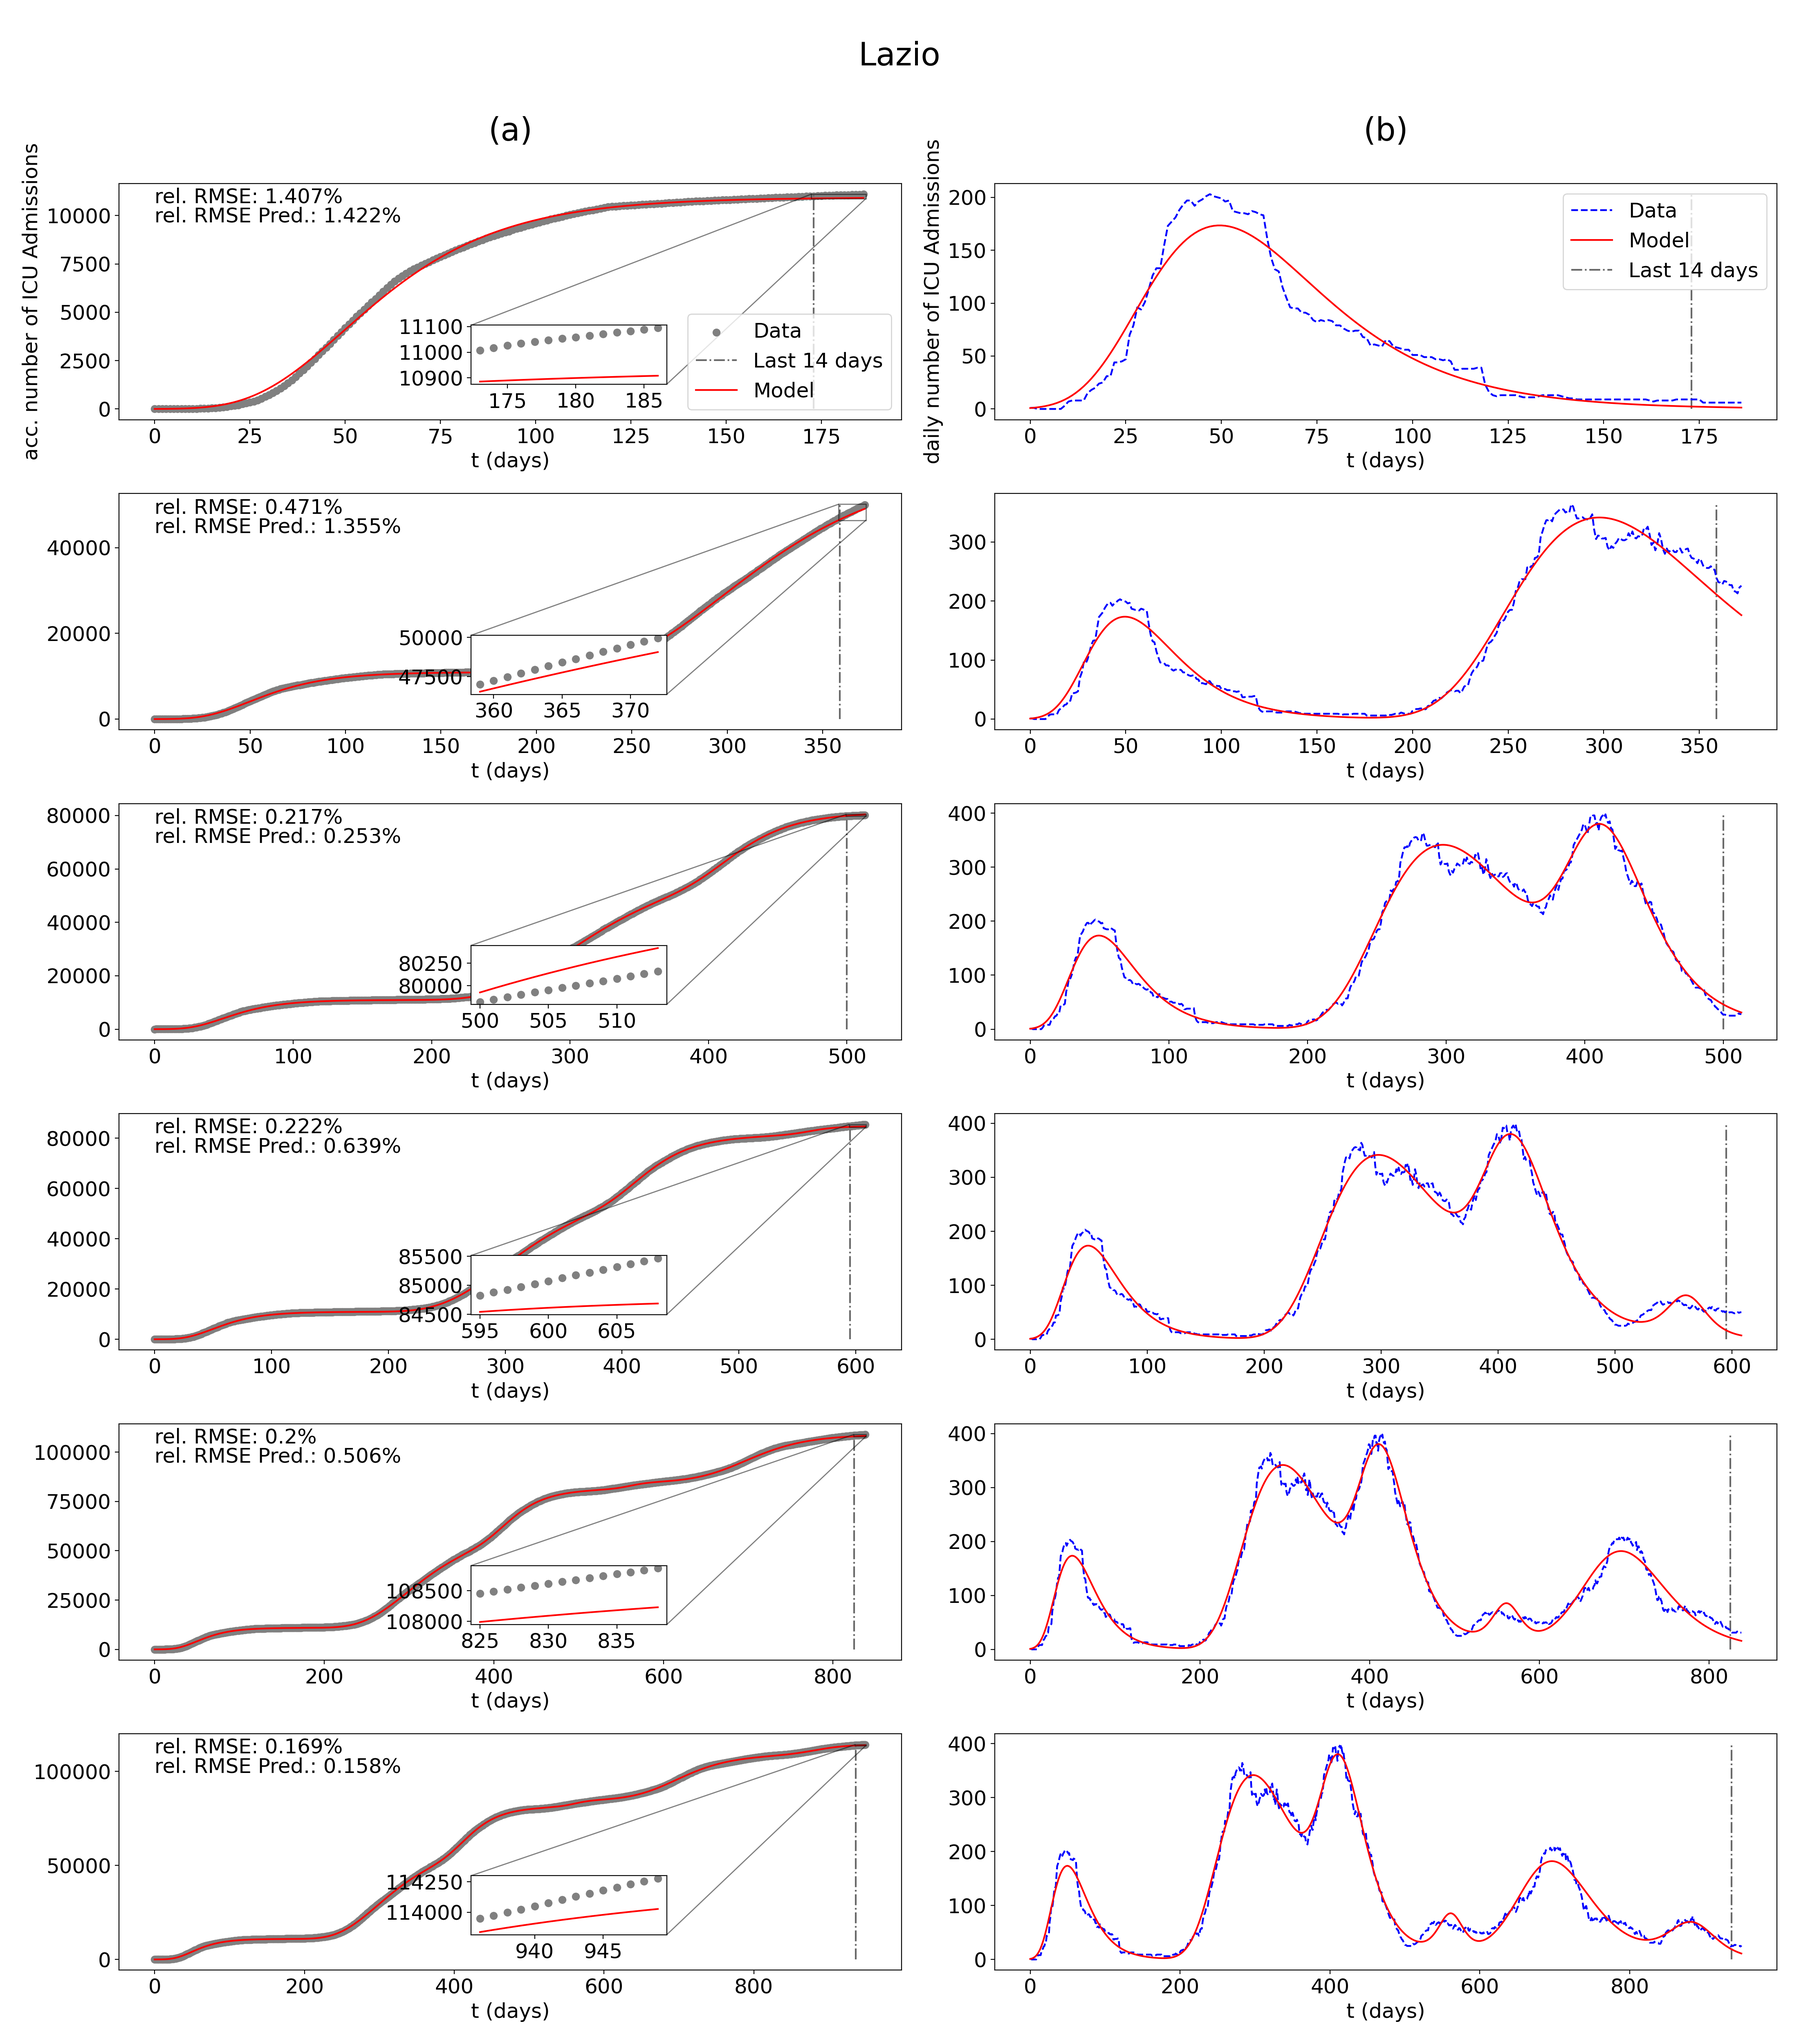
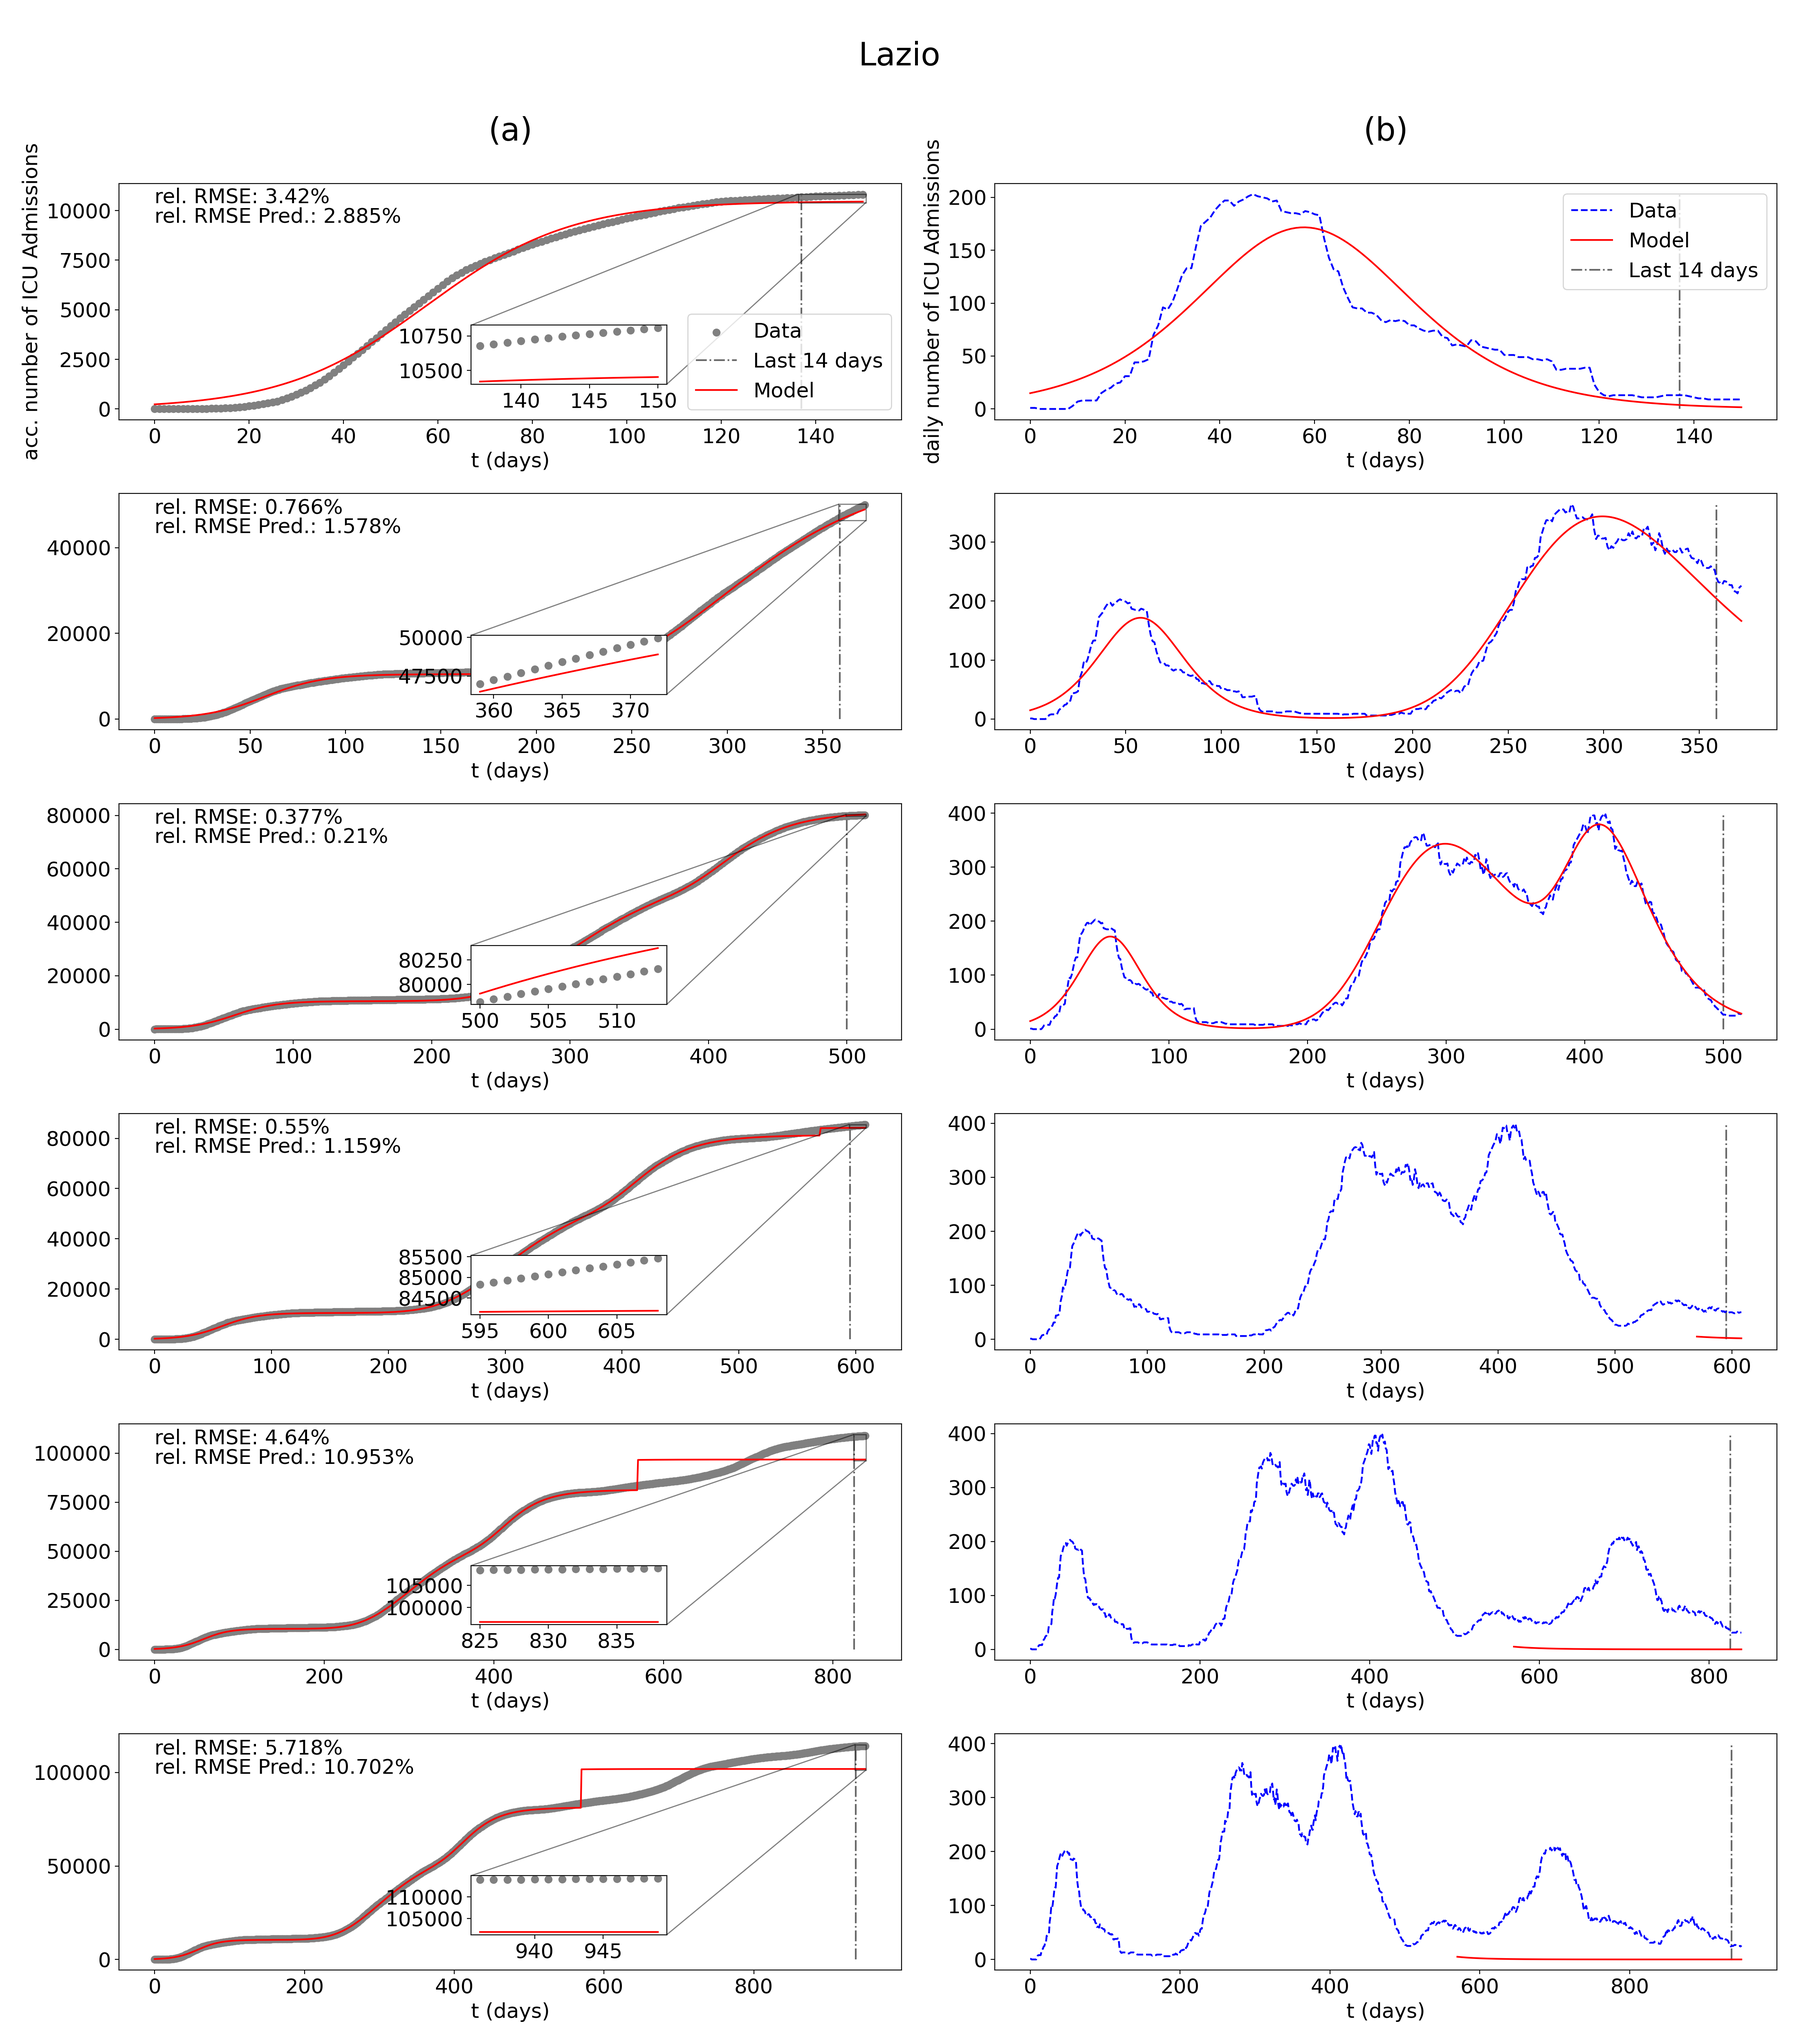
Add Echarts plot for the transition points (with user defined points via sliders)

diff --git a/src/novos_testes.py b/src/novos_testes.py
@@ -1,4 +1,5 @@
 import streamlit as st
+from streamlit_echarts import st_echarts
 import numpy as np
 import pandas as pd
 import matplotlib.pyplot as plt
@@ -26,6 +27,19 @@ with col1:
 with col2:
     # Allow indicator selection
     indicator = st.selectbox('Pandemic Indicator', ['ICU Admissions'], disabled = True)
+
+
+st.session_state.disabled = False
+
+
+use_transition_points = st.radio(
+        "Transition Points",
+        ["Same as paper", "Calculated", "User defined"],
+        key="visibility",
+        label_visibility="visible",
+        disabled=st.session_state.disabled,
+        horizontal=True,
+    )
 
 with st.spinner('Please wait...'):
 
@@ -79,15 +93,22 @@ with st.spinner('Please wait...'):
     else:
         tp_threshold = 1e-6
 
-    col1, col2 = st.columns([1, 2])
+    # Transition Points
+    x_nw, fig, tran_pts_fig_series_data = get_transition_points(scaling_factor*acc_data, visual=True, threshold=tp_threshold, indicator = indicator, city_name=city_name)
 
-    with col1:    
-        # Transition Points
-        x_nw, fig = get_transition_points(scaling_factor*acc_data, visual=True, threshold=tp_threshold, indicator = indicator, city_name=city_name)
+    if use_transition_points == 'User defined':
+        # Allow user to adjust transition points
+        st.sidebar.title("Adjust Transition Points")
+        transition_points = [
+            st.sidebar.slider(f'Transition Point {i+1}', 0, len(tran_pts_fig_series_data['normalized_acc_n_cases']) - 1, value=x)
+            for i, x in enumerate(x_nw)
+        ]
+    else:
+        transition_points = x_nw
 
-        st.pyplot(fig)    
+    if use_transition_points == 'Same as paper':
+        # Use same transition points as in paper
 
-    with col2:
         if (city_name == 'Campania' or city_name == 'Sicilia'):
             x_nw = x_nw[1:7] # Campania e Sicilia
         else:
@@ -99,7 +120,6 @@ with st.spinner('Please wait...'):
             x_nw.append(len(acc_data) - 1)  
 
         # utilizando scaling_factor = max(acc_data)
-
         if (city_name == 'Lombardia'):
             # Manual (old)
             #x_nw = [189, 361, 532, 630, 865, 1144]
@@ -121,6 +141,137 @@ with st.spinner('Please wait...'):
             # Siscilia 5e-6 manual (213 -> 150) com th 5e-6 x_nw[1:7]
             x_nw = [150, 313, 389, 509, 651, 852]
 
+    elif use_transition_points == 'User defined':
+        # Use user defined transition points
+        x_nw = transition_points
+
+    else: # Calculated
+        pass # x_nw already contains the calculated points
+    
+    # Show transition points being used
+    text_input = st.text_input(
+        "Transition Points:",
+        disabled=True,
+        value=x_nw
+    )
+
+    col1, col2 = st.columns([1, 2])
+
+    with col1:
+        tab1, tab2 = st.tabs(['Interactive Chart (Echarts)', 'Regular Chart (Matplotlib)'])
+
+        with tab2:
+            # regular matplotlib plot
+            st.pyplot(fig)   
+            
+        with tab1:
+
+            # plotting with streamlit echarts
+            options = {
+                "title": {
+                    "text": f"{city_name}",
+                    "left": "center",
+                    "top": 10,
+                    "textStyle": {"fontSize": 24}
+                },
+                "grid": [
+                    {"top": "15%", "left": "5%", "height": "25%", "width": "90%"},
+                    {"top": "45%", "left": "5%", "height": "25%", "width": "90%"},
+                    {"top": "75%", "left": "5%", "height": "20%", "width": "90%"}
+                ],
+                "xAxis": [
+                    {"gridIndex": 0, "type": "category", "data": list(range(len(tran_pts_fig_series_data['normalized_acc_n_cases'])))},
+                    {"gridIndex": 1, "type": "category", "data": list(range(len(tran_pts_fig_series_data['unf_daily_n_cases'])))},
+                    {"gridIndex": 2, "type": "category", "data": list(range(len(tran_pts_fig_series_data['sec_der'])))}
+                ],
+                "yAxis": [
+                    {"gridIndex": 0, "type": "value"},
+                    {"gridIndex": 1, "type": "value"},
+                    {"gridIndex": 2, "type": "value", "min": -2e-4, "max": 2e-4}
+                ],
+                "legend" : {
+                    "show": True,
+                    "position": "bottom",  
+                    "top": "5%",
+                    "left": "center",
+                    "width": "auto",
+                    "height": "auto",
+                    "data": ["Normalized accumulated number of cases", "New wave transition", "First derivative", "Filtered first derivative", "Second derivative", "Threshold"],                    
+                },
+                "series": [
+                    {
+                        "name": "Normalized accumulated number of cases",
+                        "type": "line",
+                        "xAxisIndex": 0,
+                        "yAxisIndex": 0,
+                        "data": list(tran_pts_fig_series_data['normalized_acc_n_cases']),
+                        "markLine": {
+                            "data": [{"xAxis": x} for x in transition_points],
+                            "lineStyle": {"type": "dotted"},
+                            "symbol": "none",  # Ensure no arrow tips
+                            "draggable": True  # Make the lines draggable
+                        },
+                        "color": "#1f77b4" # default blue (plt)
+                    },
+                    {
+                        "name": "First derivative",
+                        "type": "line",
+                        "xAxisIndex": 1,
+                        "yAxisIndex": 1,
+                        "data": list(tran_pts_fig_series_data['unf_daily_n_cases']),
+                        "markLine": {
+                            "data": [{"xAxis": x} for x in transition_points],
+                            "lineStyle": {"type": "dotted"},
+                            "symbol": "none",
+                            "draggable": True
+                        },
+                        "color": "#9467bd"
+                    },
+                    {
+                        "name": "Filtered first derivative",
+                        "type": "line",
+                        "xAxisIndex": 1,
+                        "yAxisIndex": 1,
+                        "data": list(tran_pts_fig_series_data['daily_n_cases']),
+                        "markLine": {
+                            "data": [{"xAxis": x} for x in transition_points],
+                            "lineStyle": {"type": "dotted"},
+                            "symbol": "none",
+                            "draggable": True
+                        },
+                        "color": "#2ca02c" # default green (plt)
+                    },
+                    {
+                        "name": "Second derivative",
+                        "type": "line",
+                        "xAxisIndex": 2,
+                        "yAxisIndex": 2,
+                        "data": list(tran_pts_fig_series_data['sec_der']),
+                        "markLine": {
+                            "data": [{"xAxis": x} for x in transition_points],
+                            "lineStyle": {"type": "dotted"},
+                            "symbol": "none",
+                            "draggable": True
+                        },
+                        "color": "#ff7f0e" # default orange (plt)
+                    },
+                    {
+                        "name": "Threshold",
+                        "type": "line",
+                        "xAxisIndex": 2,
+                        "yAxisIndex": 2,
+                        "data": [-1*tran_pts_fig_series_data['abs_threshold']]*len(tran_pts_fig_series_data['sec_der']),
+                        "lineStyle": {"type": "dashed"},
+                        "color": "gray"
+                    },
+                    # Additional series definitions remain the same
+                ]
+            }
+
+            st_echarts(options=options, height=700, width=500)
+
+    # Right Column - Optimization results - model fit and predictions
+    with col2:
 
         sig_params, rel_rmse_list, rel_rmse_list_pred, y_m, fig_opt = optimize.fit_data(acc_data, 
                                     daily_data, 

diff --git a/src/new_wave.py b/src/new_wave.py
@@ -143,4 +143,15 @@ def get_transition_points(data, visual=False, city_name = "", threshold = 3e-5, 
         plt.tight_layout()
         plt.savefig(f'Figuras/{city_name}_nw', facecolor='white', dpi=200)
         plt.show(block=False)
-    return x_t, fig
+
+        # return series data to plot ouside this function
+        tran_pts_fig_series_data = {
+            'normalized_acc_n_cases': normalized_acc_n_cases,
+            'unf_daily_n_cases':unf_daily_n_cases,
+            'daily_n_cases':daily_n_cases,
+            'sec_der':sec_der,
+            'abs_threshold':abs_threshold,
+            'x_t':x_t,
+            'y_t':y_t
+        }
+    return x_t, fig, tran_pts_fig_series_data
